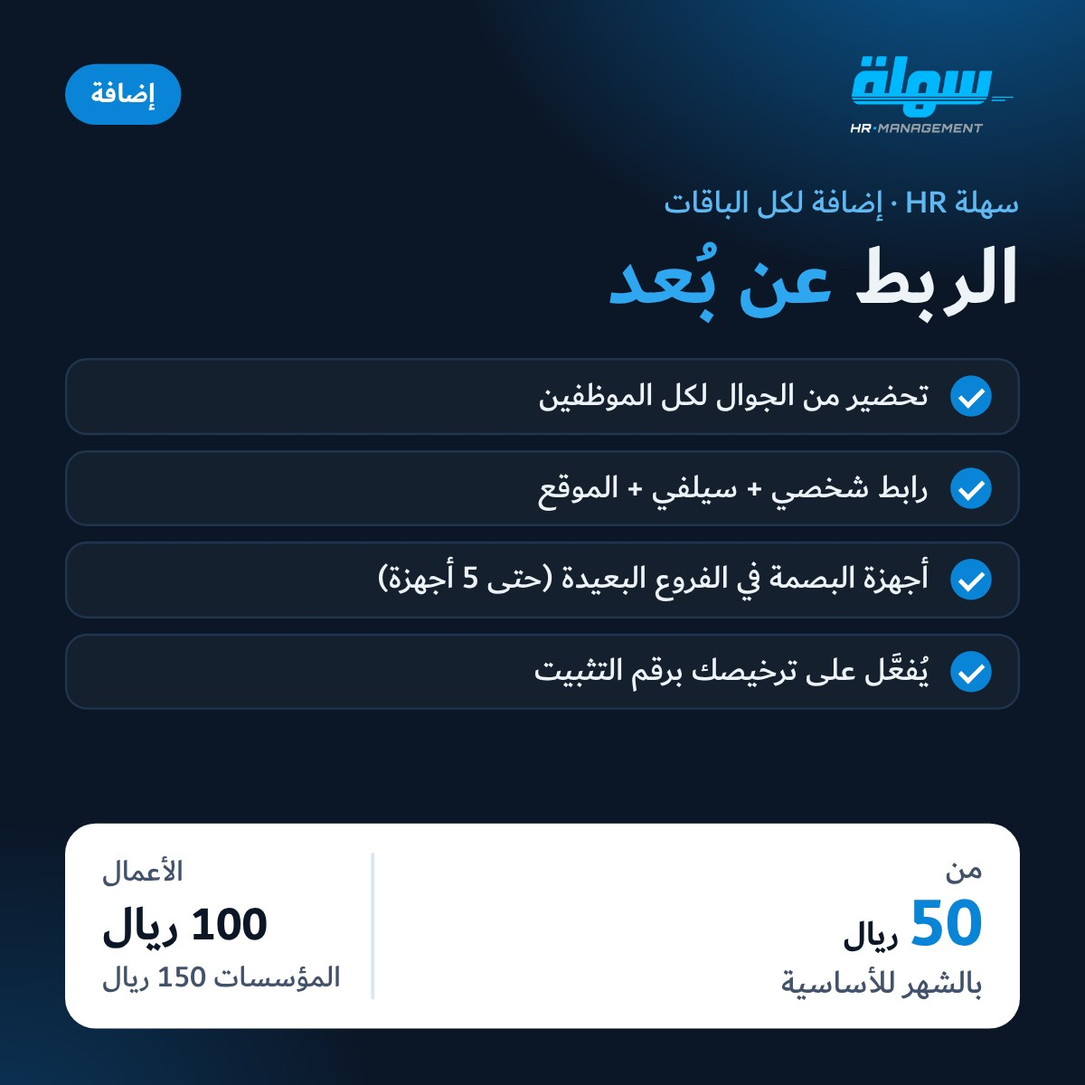
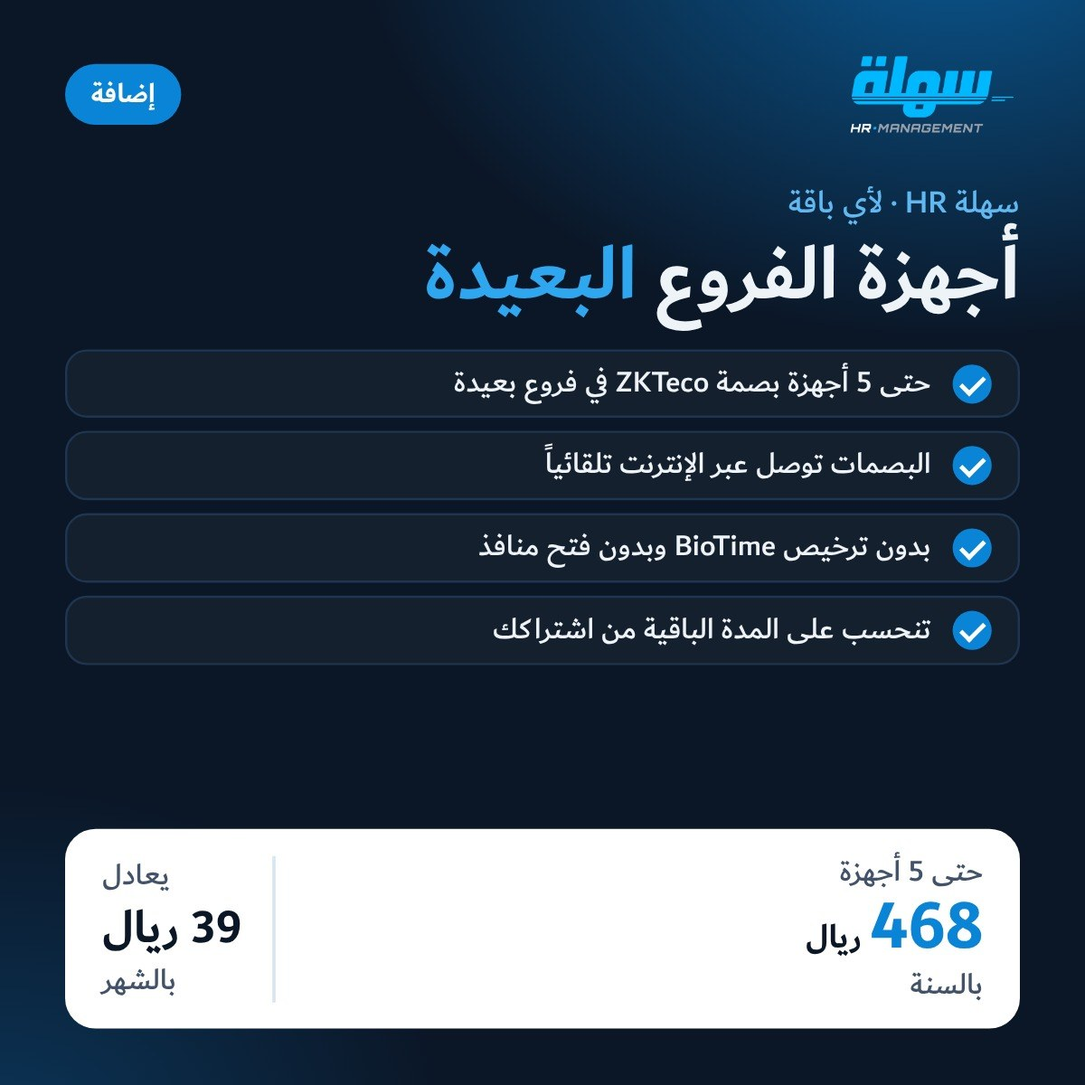
Pricing: mobile attendance included per package (5/15/30), extras 240/468, trial + 5 mobile punches
Claude-Session: https://claude.ai/code/session_01XTAqGAVn5NuZHbrhL7ZBz3

diff --git a/docs/index.html b/docs/index.html
@@ -3,9 +3,9 @@
 <head>
 <meta charset="utf-8">
 <meta name="viewport" content="width=device-width, initial-scale=1, viewport-fit=cover">
-<meta name="description" content="برنامج شؤون موظفين ورواتب وحضور يعمل بدون إنترنت. كل المميزات في كل الباقات، من 49 ريال بالشهر. جرّبه مجاناً 14 يوم.">
+<meta name="description" content="برنامج شؤون موظفين ورواتب وحضور يعمل بدون إنترنت. كل المميزات في كل الباقات مع البصمة من الجوال ومطابقة الوجه، من 49 ريال بالشهر. جرّبه مجاناً 14 يوم.">
 <meta property="og:title" content="سهلة HR — شؤون الموظفين والرواتب والحضور على جهازك">
-<meta property="og:description" content="الرواتب والحضور من جهاز البصمة والإجازات ونهاية الخدمة وتنبيه انتهاء الإقامة. جرّبه مجاناً 14 يوم.">
+<meta property="og:description" content="الرواتب والحضور من جهاز البصمة أو من الجوال مع مطابقة الوجه، والإجازات ونهاية الخدمة وتنبيه انتهاء الإقامة. جرّبه مجاناً 14 يوم.">
 <meta property="og:image" content="https://hr.sahla-sa.com/img/og-sahla.png?v=2">
 <meta property="og:image:width" content="1200">
 <meta property="og:image:height" content="630">
@@ -13,7 +13,7 @@
 <meta property="og:url" content="https://hr.sahla-sa.com/">
 <meta name="twitter:card" content="summary_large_image">
 <meta name="twitter:title" content="سهلة HR — شؤون الموظفين والرواتب والحضور على جهازك">
-<meta name="twitter:description" content="الرواتب والحضور من جهاز البصمة والإجازات ونهاية الخدمة وتنبيه انتهاء الإقامة. جرّبه مجاناً 14 يوم.">
+<meta name="twitter:description" content="الرواتب والحضور من جهاز البصمة أو من الجوال مع مطابقة الوجه، والإجازات ونهاية الخدمة وتنبيه انتهاء الإقامة. جرّبه مجاناً 14 يوم.">
 <meta name="twitter:image" content="https://hr.sahla-sa.com/img/og-sahla.png?v=2">
 <meta name="theme-color" content="#0f1115">
 <!-- Google tag (gtag.js) -->
@@ -387,7 +387,7 @@ footer a { color: var(--accent); text-decoration: none; font-weight: 600; }
 .week div.hl { border-color: var(--accent); background: var(--accent-soft); } .week div.hl span:last-child { color: var(--fg); font-weight: 700; }
 </style>
 <link rel="canonical" href="https://hr.sahla-sa.com/">
-<script type="application/ld+json">{"@context":"https://schema.org","@graph":[{"@type":"SoftwareApplication","name":"سهلة HR","alternateName":["Sahla HR","برنامج سهلة HR","سهلة اتش ار"],"description":"برنامج شؤون موظفين ورواتب وحضور وانصراف مربوط بأجهزة البصمة ZKTeco، يعمل بدون إنترنت. كل المميزات في كل الباقات، والفرق في عدد الموظفين فقط. اشتراك سنوي من 49 ريال بالشهر مع رسوم تأسيس. جرّبه مجاناً 14 يوم.","applicationCategory":"BusinessApplication","operatingSystem":"Windows","inLanguage":"ar","url":"https://hr.sahla-sa.com/","image":"https://hr.sahla-sa.com/img/og-sahla.png","offers":{"@type":"AggregateOffer","priceCurrency":"SAR","lowPrice":"588","highPrice":"1788","offerCount":"3","offers":[{"@type":"Offer","name":"الباقة الأساسية","price":"588","priceCurrency":"SAR","description":"حتى 25 موظف، كل المميزات. اشتراك سنوي 588 ريال (يعادل 49 ريال بالشهر) + رسوم تأسيس 399 ريال."},{"@type":"Offer","name":"باقة الأعمال","price":"1188","priceCurrency":"SAR","description":"حتى 75 موظف، كل المميزات. اشتراك سنوي 1,188 ريال (يعادل 99 ريال بالشهر) + رسوم تأسيس 499 ريال."},{"@type":"Offer","name":"باقة المؤسسات","price":"1788","priceCurrency":"SAR","description":"عدد موظفين بدون حد، كل المميزات. اشتراك سنوي 1,788 ريال (يعادل 149 ريال بالشهر) + رسوم تأسيس 799 ريال."}]},"publisher":{"@type":"Organization","name":"سهلة | Sahla","url":"https://hr.sahla-sa.com/","email":"info@sahla-sa.com","telephone":"+966538000892"}}]}</script>
+<script type="application/ld+json">{"@context":"https://schema.org","@graph":[{"@type":"SoftwareApplication","name":"سهلة HR","alternateName":["Sahla HR","برنامج سهلة HR","سهلة اتش ار"],"description":"برنامج شؤون موظفين ورواتب وحضور وانصراف مربوط بأجهزة البصمة ZKTeco، يعمل بدون إنترنت. كل المميزات في كل الباقات مع إشعارات البريد والبصمة من الجوال ومطابقة الوجه، والفرق في عدد الموظفين. اشتراك سنوي من 49 ريال بالشهر مع رسوم تأسيس في أول سنة. جرّبه مجاناً 14 يوم مع 5 بصمات مجانية من الجوال.","applicationCategory":"BusinessApplication","operatingSystem":"Windows","inLanguage":"ar","url":"https://hr.sahla-sa.com/","image":"https://hr.sahla-sa.com/img/og-sahla.png","offers":{"@type":"AggregateOffer","priceCurrency":"SAR","lowPrice":"588","highPrice":"1788","offerCount":"3","offers":[{"@type":"Offer","name":"الباقة الأساسية","price":"588","priceCurrency":"SAR","description":"حتى 25 موظف، منهم 5 يبصمون من الجوال مع مطابقة الوجه، وكل المميزات. اشتراك سنوي 588 ريال (يعادل 49 ريال بالشهر) + رسوم تأسيس 399 ريال في أول سنة."},{"@type":"Offer","name":"باقة الأعمال","price":"1188","priceCurrency":"SAR","description":"حتى 75 موظف، منهم 15 يبصمون من الجوال مع مطابقة الوجه، وكل المميزات. اشتراك سنوي 1,188 ريال (يعادل 99 ريال بالشهر) + رسوم تأسيس 499 ريال في أول سنة."},{"@type":"Offer","name":"باقة المؤسسات","price":"1788","priceCurrency":"SAR","description":"عدد موظفين بدون حد، منهم 30 يبصمون من الجوال مع مطابقة الوجه، وكل المميزات. اشتراك سنوي 1,788 ريال (يعادل 149 ريال بالشهر) + رسوم تأسيس 799 ريال في أول سنة."}]},"publisher":{"@type":"Organization","name":"سهلة | Sahla","url":"https://hr.sahla-sa.com/","email":"info@sahla-sa.com","telephone":"+966538000892"}}]}</script>
 </head>
 <body>
 
@@ -405,12 +405,12 @@ footer a { color: var(--accent); text-decoration: none; font-weight: 600; }
       <div class="copy">
         <div class="eyebrow">سهلة HR — نظام شؤون الموظفين</div>
         <h1>موظفينك ورواتبك وحضورهم في مكان واحد، <em>على جهازك وبدون إنترنت</em></h1>
-        <p class="lead">برنامج شؤون موظفين مبني على نظام العمل السعودي: ملفات الموظفين، الحضور من جهاز البصمة، الرواتب مع التأمينات وملف حماية الأجور، الإجازات، ونهاية الخدمة. كل المميزات في كل الباقات، من 49 ريال بالشهر، وبياناتك تبقى عندك.</p>
+        <p class="lead">برنامج شؤون موظفين مبني على نظام العمل السعودي: ملفات الموظفين، الحضور من جهاز البصمة، الرواتب مع التأمينات وملف حماية الأجور، الإجازات، ونهاية الخدمة. كل المميزات في كل الباقات مع البصمة من الجوال ومطابقة الوجه، من 49 ريال بالشهر، وبياناتك تبقى عندك.</p>
         <div class="ctas">
           <a class="btn primary" href="#editions">حمّل التجربة المجانية <small>14 يوم كاملة</small></a>
           <a class="btn wa" href="https://wa.me/966538000892?text=%D8%A7%D9%84%D8%B3%D9%84%D8%A7%D9%85%20%D8%B9%D9%84%D9%8A%D9%83%D9%85%D8%8C%20%D8%A3%D8%A8%D8%BA%D9%89%20%D8%A3%D8%B9%D8%B1%D9%81%20%D8%B9%D9%86%20%D8%B3%D9%87%D9%84%D8%A9%20HR" target="_blank" rel="noopener"><svg viewBox="0 0 24 24" fill="currentColor" aria-hidden="true"><path d="M12 2a10 10 0 0 0-8.6 15.1L2 22l5-1.3A10 10 0 1 0 12 2Zm0 18.2a8.2 8.2 0 0 1-4.2-1.2l-.3-.2-3 .8.8-2.9-.2-.3A8.2 8.2 0 1 1 12 20.2Zm4.5-6.1c-.2-.1-1.5-.7-1.7-.8s-.4-.1-.6.1-.7.8-.8 1-.3.2-.5.1a6.7 6.7 0 0 1-3.3-2.9c-.3-.4.3-.4.7-1.4.1-.2 0-.3 0-.5l-.8-1.8c-.2-.5-.4-.4-.6-.4h-.5a1 1 0 0 0-.7.3 3 3 0 0 0-.9 2.2 5.2 5.2 0 0 0 1.1 2.7 11.8 11.8 0 0 0 4.5 4c1.7.7 2.3.8 3.2.6a2.7 2.7 0 0 0 1.8-1.3 2.2 2.2 0 0 0 .1-1.3c0-.1-.2-.2-.5-.3Z"/></svg>تواصل واتساب</a>
         </div>
-        <div class="meta"><span><i></i>من 49 ريال بالشهر</span><span><i></i>عربي بالكامل</span><span><i></i>كمبيوتر أو سيرفر للشبكة</span><span><i></i>يشتغل على الجوال من الشبكة</span></div>
+        <div class="meta"><span><i></i>من 49 ريال بالشهر</span><span><i></i>عربي بالكامل</span><span><i></i>كمبيوتر أو سيرفر للشبكة</span><span><i></i>يشتغل على الجوال من الشبكة</span><span><i></i>البصمة من الجوال مع مطابقة الوجه</span></div>
       </div>
       <div class="stage">
         <div class="frame"><div class="bar"><i></i><i></i><i></i></div><img src="img/dashboard-d.webp?v=3" alt="لوحة التحكم في سهلة HR: عدد الموظفين لكل علامة، الحاضرون والغائبون اليوم، تكلفة الرواتب، وتنبيهات انتهاء الإقامات والعقود" width="1600" height="1000"></div>
@@ -587,7 +587,7 @@ footer a { color: var(--accent); text-decoration: none; font-weight: 600; }
         <p class="lead">أجهزة ZKTeco على نفس الشبكة ترتبط بعنوانها مباشرة بدون أي برنامج إضافي. والأجهزة في الفروع البعيدة توصل بصماتها عبر الإنترنت، وتضيفها بزر «إضافة جهاز جديد»: البرنامج يكتشف الجهاز ويطلب موافقتك.</p>
         <ul class="attn-list">
           <li><b>على نفس الشبكة</b><span>ربط مباشر بعنوان الجهاز، في كل النسخ</span></li>
-          <li><b>فروع متفرقة</b><span>حتى 5 أجهزة بعيدة عبر الإنترنت، بدون ترخيص BioTime وبدون فتح منافذ في الراوتر · ضمن إضافة <a href="devices/">«الربط عن بُعد»</a>: من <span class="num">50</span> ريال بالشهر</span></li>
+          <li><b>فروع متفرقة</b><span>حتى 5 أجهزة بعيدة عبر الإنترنت، بدون ترخيص BioTime وبدون فتح منافذ في الراوتر · إضافة <a href="devices/">«أجهزة الفروع البعيدة»</a>: <span class="num">468</span> ريال بالسنة (<span class="num">39</span> بالشهر)</span></li>
           <li><b>BioTime أو Excel</b><span>وما زال الربط مع ZKBioTime واستيراد ملف البصمات متوفر</span></li>
         </ul>
       </div>
@@ -668,16 +668,16 @@ footer a { color: var(--accent); text-decoration: none; font-weight: 600; }
   <section id="editions" class="editions">
     <div class="wrap">
       <div class="eyebrow">الباقات والأسعار</div>
-      <h2>جرّبه مجاناً 14 يوم، وبعدها اختر الباقة اللي تناسب منشأتك</h2>
-      <p class="lead" style="margin-top:12px"><b>كل المميزات مشمولة في كل الباقات</b>، والفرق بس في عدد الموظفين. تدفع رسوم التأسيس مرة وحدة، والاشتراك سنوي يشمل التحديثات والدعم الفني. جرّبه مجاناً 14 يوم بكل المميزات، وإذا عجبك اشترِ باقتك من المتجر، وأرسل لنا «رقم التثبيت» على واتساب، ويوصلك رقم الترخيص.</p>
+      <h2>جرّبه مجاناً 14 يوم مع 5 بصمات مجانية من الجوال، وبعدها اختر باقتك</h2>
+      <p class="lead" style="margin-top:12px"><b>كل المميزات مشمولة في كل الباقات</b>، ومعها إشعارات البريد والبصمة من الجوال مع مطابقة الوجه. الفرق بس في عدد الموظفين وعدد اللي يبصمون من الجوال. رسوم التأسيس في أول سنة فقط، والاشتراك السنوي يشمل التحديثات والدعم الفني. وإذا عجبك البرنامج اشترِ باقتك من المتجر، وأرسل لنا «رقم التثبيت» على واتساب، ويوصلك رقم الترخيص.</p>
       <div class="grid three">
         <article class="ed">
           <span class="tag">للمنشآت الصغيرة</span>
           <h3>الأساسية</h3>
           <p class="fit">للمنشأة الصغيرة اللي يدير شؤون موظفيها شخص واحد من جهازه.</p>
           <div class="price"><b class="num">49</b><span>ريال بالشهر</span></div>
-          <p class="renew">تُدفع سنوياً <b class="num">588</b> ريال · رسوم التأسيس <b class="num">399</b> ريال مرة وحدة</p>
-          <ul><li><span><b>حتى 25 موظف</b></span></li><li><span><b>كل المميزات مشمولة</b>: الحضور والرواتب والإجازات ونهاية الخدمة والتقارير</span></li><li><span><b>إيميل تلقائي للموظف</b> مع كل حدث، وتنبيه فوري بالتأخير وعدم التبصيم</span></li><li>على جهاز واحد، أو على سيرفر الشركة لكل أجهزة الشبكة</li><li>مستخدمين بدون حد، وواجهة عربي وإنجليزي</li><li>ربط أجهزة البصمة على نفس الشبكة (ZKTeco مباشرة)</li><li>التحديثات والدعم الفني</li></ul>
+          <p class="renew">تُدفع سنوياً <b class="num">588</b> ريال · رسوم التأسيس <b class="num">399</b> ريال في أول سنة فقط</p>
+          <ul><li><span><b>حتى 25 موظف</b></span></li><li><span><b>البصمة من الجوال لـ <span class="num">5</span> موظف</b>: رابط شخصي، الموقع داخل نطاق الفرع، وسيلفي مع مطابقة الوجه</span></li><li><span><b>كل المميزات مشمولة</b>: الحضور والرواتب والإجازات ونهاية الخدمة والتقارير</span></li><li><span><b>إيميل تلقائي للموظف</b> مع كل حدث، وتنبيه فوري بالتأخير وعدم التبصيم</span></li><li>على جهاز واحد، أو على سيرفر الشركة لكل أجهزة الشبكة</li><li>مستخدمين بدون حد، وواجهة عربي وإنجليزي</li><li>ربط أجهزة البصمة على نفس الشبكة (ZKTeco مباشرة)</li><li>التحديثات والدعم الفني</li></ul>
           <div class="acts">
             <a class="btn primary" href="https://hr.sahla-sa.com/download/Sahla-HR-Desktop-Setup.exe" rel="noopener">حمّل التجربة <small>Windows · 19 ميجا</small></a>
             <a class="btn ghost" href="https://sahla-sa.com/-/p1999974278" target="_blank" rel="noopener">اشترك في الأساسية</a>
@@ -691,8 +691,8 @@ footer a { color: var(--accent); text-decoration: none; font-weight: 600; }
           <h3>الأعمال</h3>
           <p class="fit">للشركة اللي فيها فريق موارد بشرية ومحاسب ومدراء فروع يشتغلون من أكثر من جهاز.</p>
           <div class="price"><b class="num">99</b><span>ريال بالشهر</span></div>
-          <p class="renew">تُدفع سنوياً <b class="num">1,188</b> ريال · رسوم التأسيس <b class="num">499</b> ريال مرة وحدة</p>
-          <ul><li><span><b>حتى 75 موظف</b></span></li><li><span><b>كل المميزات مشمولة</b>: الحضور والرواتب والإجازات ونهاية الخدمة والتقارير</span></li><li><span><b>إيميل تلقائي للموظف</b> مع كل حدث، وتنبيه فوري بالتأخير وعدم التبصيم</span></li><li>على جهاز واحد، أو على سيرفر الشركة لكل أجهزة الشبكة</li><li>مستخدمين بدون حد، وواجهة عربي وإنجليزي</li><li>ربط أجهزة البصمة على نفس الشبكة (ZKTeco مباشرة)</li><li>التحديثات والدعم الفني</li></ul>
+          <p class="renew">تُدفع سنوياً <b class="num">1,188</b> ريال · رسوم التأسيس <b class="num">499</b> ريال في أول سنة فقط</p>
+          <ul><li><span><b>حتى 75 موظف</b></span></li><li><span><b>البصمة من الجوال لـ <span class="num">15</span> موظف</b>: رابط شخصي، الموقع داخل نطاق الفرع، وسيلفي مع مطابقة الوجه</span></li><li><span><b>كل المميزات مشمولة</b>: الحضور والرواتب والإجازات ونهاية الخدمة والتقارير</span></li><li><span><b>إيميل تلقائي للموظف</b> مع كل حدث، وتنبيه فوري بالتأخير وعدم التبصيم</span></li><li>على جهاز واحد، أو على سيرفر الشركة لكل أجهزة الشبكة</li><li>مستخدمين بدون حد، وواجهة عربي وإنجليزي</li><li>ربط أجهزة البصمة على نفس الشبكة (ZKTeco مباشرة)</li><li>التحديثات والدعم الفني</li></ul>
           <div class="acts">
             <a class="btn primary" href="https://hr.sahla-sa.com/download/Sahla-HR-Server-Email-Setup.exe" rel="noopener">حمّل التجربة <small>Windows Server · 19 ميجا</small></a>
             <a class="btn ghost" href="https://sahla-sa.com/-/p982089646" target="_blank" rel="noopener">اشترك في الأعمال</a>
@@ -706,8 +706,8 @@ footer a { color: var(--accent); text-decoration: none; font-weight: 600; }
           <h3>المؤسسات</h3>
           <p class="fit">للمنشأة الكبيرة أو المجموعة اللي عندها أكثر من علامة وفروع وموظفين كثير.</p>
           <div class="price"><b class="num">149</b><span>ريال بالشهر</span></div>
-          <p class="renew">تُدفع سنوياً <b class="num">1,788</b> ريال · رسوم التأسيس <b class="num">799</b> ريال مرة وحدة</p>
-          <ul><li><span><b>عدد موظفين بدون حد</b></span></li><li><span><b>كل المميزات مشمولة</b>: الحضور والرواتب والإجازات ونهاية الخدمة والتقارير</span></li><li><span><b>إيميل تلقائي للموظف</b> مع كل حدث، وتنبيه فوري بالتأخير وعدم التبصيم</span></li><li>على جهاز واحد، أو على سيرفر الشركة لكل أجهزة الشبكة</li><li>مستخدمين بدون حد، وواجهة عربي وإنجليزي</li><li>ربط أجهزة البصمة على نفس الشبكة (ZKTeco مباشرة)</li><li>التحديثات والدعم الفني</li></ul>
+          <p class="renew">تُدفع سنوياً <b class="num">1,788</b> ريال · رسوم التأسيس <b class="num">799</b> ريال في أول سنة فقط</p>
+          <ul><li><span><b>عدد موظفين بدون حد</b></span></li><li><span><b>البصمة من الجوال لـ <span class="num">30</span> موظف</b>: رابط شخصي، الموقع داخل نطاق الفرع، وسيلفي مع مطابقة الوجه</span></li><li><span><b>كل المميزات مشمولة</b>: الحضور والرواتب والإجازات ونهاية الخدمة والتقارير</span></li><li><span><b>إيميل تلقائي للموظف</b> مع كل حدث، وتنبيه فوري بالتأخير وعدم التبصيم</span></li><li>على جهاز واحد، أو على سيرفر الشركة لكل أجهزة الشبكة</li><li>مستخدمين بدون حد، وواجهة عربي وإنجليزي</li><li>ربط أجهزة البصمة على نفس الشبكة (ZKTeco مباشرة)</li><li>التحديثات والدعم الفني</li></ul>
           <div class="acts">
             <a class="btn primary" href="https://hr.sahla-sa.com/download/Sahla-HR-Server-Email-Setup.exe" rel="noopener">حمّل التجربة <small>Windows Server · 19 ميجا</small></a>
             <a class="btn ghost" href="https://sahla-sa.com/-/p1475062499" target="_blank" rel="noopener">اشترك في المؤسسات</a>
@@ -717,8 +717,10 @@ footer a { color: var(--accent); text-decoration: none; font-weight: 600; }
         </article>
       </div>
       <div class="addons">
-        <div><b>إضافة «الربط عن بُعد»</b><span class="p"><span class="num">50</span> / <span class="num">100</span> / <span class="num">150</span> ريال بالشهر حسب الباقة</span><span>تُدفع سنوياً مع الاشتراك: <span class="num">600</span> للأساسية، <span class="num">1,200</span> للأعمال، <span class="num">1,800</span> للمؤسسات. تحضير من الجوال لكل الموظفين (رابط شخصي + سيلفي + الموقع)، وربط أجهزة البصمة في الفروع البعيدة عبر الإنترنت (حتى 5 أجهزة). <a href="devices/">التفاصيل</a></span><a class="btn ghost addon-buy" href="https://wa.me/966538000892?text=%D8%A7%D9%84%D8%B3%D9%84%D8%A7%D9%85%20%D8%B9%D9%84%D9%8A%D9%83%D9%85%D8%8C%20%D8%A3%D8%A8%D8%BA%D9%89%20%D8%A5%D8%B6%D8%A7%D9%81%D8%A9%20%C2%AB%D8%A7%D9%84%D8%B1%D8%A8%D8%B7%20%D8%B9%D9%86%20%D8%A8%D9%8F%D8%B9%D8%AF%C2%BB%20%D9%81%D9%8A%20%D8%B3%D9%87%D9%84%D8%A9%20HR" target="_blank" rel="noopener">اطلب الإضافة</a></div>
-        <div><b>وش تشمل رسوم التأسيس؟</b><span class="p"><span class="num">399</span> / <span class="num">499</span> / <span class="num">799</span> ريال مرة وحدة</span><span>تفعيل الترخيص، التثبيت عن بُعد، ربط أجهزة البصمة على نفس الشبكة (جهاز واحد للأساسية، حتى 3 للأعمال، حتى 5 للمؤسسات)، استيراد الموظفين من Excel، تجهيز بيانات المنشأة، وجلسة تدريب 45 دقيقة. رسوم التأسيس غير مستردة بعد التثبيت.</span></div>
+        <div><b>إضافة «موظفين جوال إضافيين»</b><span class="p"><span class="num">240</span> ريال بالسنة لكل <span class="num">5</span> موظفين</span><span>يعني <span class="num">4</span> ريال للموظف بالشهر، لأي باقة. لما يزيد عدد اللي يبصمون من الجوال عن المشمول في باقتك، تضيف كل 5 موظفين بنفس المميزات: رابط شخصي، الموقع داخل نطاق الفرع، وسيلفي مع مطابقة الوجه.</span><a class="btn ghost addon-buy" href="https://wa.me/966538000892?text=%D8%A7%D9%84%D8%B3%D9%84%D8%A7%D9%85%20%D8%B9%D9%84%D9%8A%D9%83%D9%85%D8%8C%20%D8%A3%D8%A8%D8%BA%D9%89%20%D8%A5%D8%B6%D8%A7%D9%81%D8%A9%20%C2%AB%D9%85%D9%88%D8%B8%D9%81%D9%8A%D9%86%20%D8%AC%D9%88%D8%A7%D9%84%20%D8%A5%D8%B6%D8%A7%D9%81%D9%8A%D9%8A%D9%86%C2%BB%20%D9%81%D9%8A%20%D8%B3%D9%87%D9%84%D8%A9%20HR" target="_blank" rel="noopener">اطلب الإضافة</a></div>
+        <div><b>إضافة «أجهزة الفروع البعيدة»</b><span class="p"><span class="num">468</span> ريال بالسنة (يعادل <span class="num">39</span> بالشهر)</span><span>لأي باقة. تربط حتى 5 أجهزة بصمة ZKTeco في فروع بعيدة عبر الإنترنت، بدون شبكة موحّدة وبدون ترخيص BioTime. أجهزة الفروع البعيدة ما تدخل في التجربة المجانية. <a href="devices/">التفاصيل</a></span><a class="btn ghost addon-buy" href="https://wa.me/966538000892?text=%D8%A7%D9%84%D8%B3%D9%84%D8%A7%D9%85%20%D8%B9%D9%84%D9%8A%D9%83%D9%85%D8%8C%20%D8%A3%D8%A8%D8%BA%D9%89%20%D8%A5%D8%B6%D8%A7%D9%81%D8%A9%20%C2%AB%D8%A3%D8%AC%D9%87%D8%B2%D8%A9%20%D8%A7%D9%84%D9%81%D8%B1%D9%88%D8%B9%20%D8%A7%D9%84%D8%A8%D8%B9%D9%8A%D8%AF%D8%A9%C2%BB%20%D9%81%D9%8A%20%D8%B3%D9%87%D9%84%D8%A9%20HR" target="_blank" rel="noopener">اطلب الإضافة</a></div>
+        <div><b>وش تشمل رسوم التأسيس؟</b><span class="p"><span class="num">399</span> / <span class="num">499</span> / <span class="num">799</span> ريال في أول سنة فقط</span><span>تفعيل الترخيص، التثبيت عن بُعد، ربط أجهزة البصمة على نفس الشبكة (جهاز واحد للأساسية، حتى 3 للأعمال، حتى 5 للمؤسسات)، استيراد الموظفين من Excel، تجهيز بيانات المنشأة، وجلسة تدريب 45 دقيقة. رسوم التأسيس غير مستردة بعد التثبيت.</span></div>
+        <div><b>الإضافات والترقية خلال السنة</b><span class="p">تدفع بس عن المدة المتبقية</span><span>أي إضافة تطلبها في نص السنة تنحسب بنسبة المدة الباقية من اشتراكك. والترقية لباقة أعلى تدفع فيها فرق الاشتراك السنوي عن المدة الباقية فقط، بدون رسوم تأسيس جديدة. الدفع سنوي، وما فيه تقسيط.</span></div>
       </div>
       <div class="renewal" id="renewal">
         <div class="card">
@@ -750,7 +752,7 @@ footer a { color: var(--accent); text-decoration: none; font-weight: 600; }
       <h2>من التحميل للتشغيل في دقائق</h2>
       <ol>
         <li><h3>حمّل وثبّت</h3><p>شغّل ملف التثبيت. أول مرة يفتح يطلب اسم منشأتك وحساب المالك.</p></li>
-        <li><h3>جرّبه 14 يوم</h3><p>البرنامج كامل بكل أقسامه. أضف موظفينك وجرّب الرواتب والحضور على بياناتك الحقيقية.</p></li>
+        <li><h3>جرّبه 14 يوم</h3><p>البرنامج كامل بكل أقسامه، ومعه 5 بصمات مجانية من الجوال. أضف موظفينك وجرّب الرواتب والحضور على بياناتك الحقيقية.</p></li>
         <li><h3>اشترِ وفعّل الترخيص</h3><p>اشترِ باقتك من المتجر، ثم اضغط في البرنامج «إدخال رقم الترخيص» وأرسل لنا رقم التثبيت على واتساب. يوصلك رقم ترخيص باقتك، وتكمل بنفس بياناتك.</p></li>
       </ol>
     </div>
@@ -764,15 +766,16 @@ footer a { color: var(--accent); text-decoration: none; font-weight: 600; }
         <details><summary>هل يحتاج إنترنت؟</summary><p>لا. البرنامج يشتغل على جهازك أو على سيرفر شركتك، والأجهزة الثانية تفتحه من الشبكة الداخلية. الإنترنت تحتاجه بس لإرسال إشعارات البريد، أو إذا كان جهاز البصمة على شبكة ثانية.</p></details>
         <details><summary>ويندوز يطلع تحذير «Windows protected your PC» عند التثبيت</summary><p>هذا تنبيه عام لأي برنامج جديد ما انتشر كثير. اضغط «More info» ثم «Run anyway» ويكمل التثبيت عادي.</p></details>
         <details><summary>وش يصير بعد الـ14 يوم إذا ما اشتريت؟</summary><p>البرنامج ما يقفل عليك: يصير للعرض فقط، تشوف بياناتك وتطبعها وتصدّرها، وبياناتك تبقى محفوظة كما هي. لما تفعّل الترخيص تكمل من حيث وقفت.</p></details>
-        <details><summary>كيف يكون الدفع؟ شهري ولا سنوي؟</summary><p>الاشتراك سنوي: <span class="num">588</span> ريال للأساسية (يعادل <span class="num">49</span> بالشهر)، <span class="num">1,188</span> للأعمال (<span class="num">99</span> بالشهر)، و<span class="num">1,788</span> للمؤسسات (<span class="num">149</span> بالشهر). وفوقها رسوم تأسيس مرة وحدة: <span class="num">399</span> أو <span class="num">499</span> أو <span class="num">799</span> حسب الباقة. الأسعار نهائية، والترخيص مربوط بالجهاز اللي ثبّت عليه البرنامج.</p></details>
+        <details><summary>كيف يكون الدفع؟ شهري ولا سنوي؟</summary><p>الاشتراك سنوي: <span class="num">588</span> ريال للأساسية (يعادل <span class="num">49</span> بالشهر)، <span class="num">1,188</span> للأعمال (<span class="num">99</span> بالشهر)، و<span class="num">1,788</span> للمؤسسات (<span class="num">149</span> بالشهر). وفي أول سنة فقط رسوم تأسيس: <span class="num">399</span> أو <span class="num">499</span> أو <span class="num">799</span> حسب الباقة. الدفع سنوي بدون تقسيط، والأسعار نهائية، والترخيص مربوط بالجهاز اللي ثبّت عليه البرنامج.</p></details>
         <details><summary>اشتركت بالأسعار السابقة، هل يتغير سعري؟</summary><p>لا. اللي اشترك بأسعار الاشتراك السابقة يبقى تجديده بنفس سعره، وأصحاب التراخيص الدائمة يبقى ترخيصهم كما هو.</p></details>
         <details><summary>وش يشمل التجديد السنوي؟</summary><p>تحديثات الأنظمة (نسب التأمينات، تعديلات نظام العمل، ملفات حماية الأجور)، وكل النسخ الجديدة والتحسينات، والدعم الفني بأوقات استجابة محددة، والمساعدة في استرجاع النسخ الاحتياطية والنقل لجهاز جديد.</p></details>
         <details><summary>وش يصير إذا ما جددت؟</summary><p>نذكّرك قبل الانتهاء بـ 30 يوم، وبعد الانتهاء عندك 30 يوم مهلة والبرنامج يشتغل عادي. بعد المهلة يصير البرنامج للعرض فقط: تشوف بياناتك وتطبعها وتصدّرها، والنسخ الاحتياطي مستمر. بياناتك ما تنقفل أبداً. وإذا رجعت خلال 6 أشهر تجدد بالسعر العادي، وبعدها بـ 50% من رسوم التأسيس.</p></details>
-        <details><summary>أقدر أربطه بجهاز البصمة؟</summary><p>نعم. أجهزة ZKTeco على نفس الشبكة ترتبط بعنوانها مباشرة، والأجهزة في الفروع البعيدة ترتبط عبر الإنترنت مع إضافة «الربط عن بُعد» (من <span class="num">50</span> ريال بالشهر حسب الباقة). ويسحب أيضاً من برنامج ZKBioTime، أو تستورد ملف حركات البصمة من Excel لأي جهاز ثاني.</p></details>
+        <details><summary>أقدر أربطه بجهاز البصمة؟</summary><p>نعم. أجهزة ZKTeco على نفس الشبكة ترتبط بعنوانها مباشرة، والأجهزة في الفروع البعيدة (حتى 5 أجهزة) ترتبط عبر الإنترنت مع إضافة «أجهزة الفروع البعيدة» بـ <span class="num">468</span> ريال بالسنة لأي باقة. ويسحب أيضاً من برنامج ZKBioTime، أو تستورد ملف حركات البصمة من Excel لأي جهاز ثاني.</p></details>
+        <details><summary>كيف تشتغل البصمة من الجوال؟</summary><p>كل موظف ياخذ رابط شخصي يفتحه من جواله، ويسجّل حضوره وانصرافه بشرط يكون موقعه داخل نطاق الفرع، مع صورة سيلفي يطابقها البرنامج مع وجه الموظف تلقائياً. مشمولة في كل الباقات: <span class="num">5</span> موظفين في الأساسية، <span class="num">15</span> في الأعمال، و<span class="num">30</span> في المؤسسات. تحتاج أكثر؟ كل <span class="num">5</span> موظفين إضافيين بـ <span class="num">240</span> ريال بالسنة (<span class="num">4</span> ريال للموظف بالشهر). وفي التجربة المجانية تاخذ 5 بصمات مجانية من الجوال تجرّبها.</p></details>
         <details><summary>موظفيني أجانب، هل الإيميلات بالعربي بس؟</summary><p>لا. مع إشعارات البريد تختار لكل موظف لغة إشعاراته: عربي أو إنجليزي أو الاثنين، والتعميمات تقدر تكتبها بلغتين.</p></details>
         <details><summary>عندي أكثر من علامة تجارية أو فرع</summary><p>تضيف كل علامة بشعارها وسجلها التجاري، وكل علامة لها فروعها ومسيرها المستقل، وتقدر تشوف الكل في لوحة وحدة.</p></details>
         <details><summary>إشعارات البريد في أي باقة؟</summary><p>مشمولة في كل الباقات. إشعارات البريد ترسل للموظف إيميل تلقائي من بريد منشأتك مع كل حدث يخصه: الإنذارات، قرار الإجازة والسلفة، قسيمة الراتب، وقرب انتهاء وثائقه. تحتاج بريد للمنشأة (Google Workspace أو Gmail أو Microsoft 365 أو Zoho) وأن يكون الجهاز متصل بالإنترنت وقت الإرسال.</p></details>
-        <details><summary>أقدر أرقّي باقتي بعدين؟</summary><p>نعم. تدفع الفرق بين رسوم التأسيس للباقتين، وبعدها يكون تجديدك بسعر الباقة الجديدة. تواصل معنا على واتساب ونرسل لك رقم الترخيص الجديد، وتكمل بنفس بياناتك، وإذا انتقلت من الأساسية لنسخة السيرفر نساعدك تنقل بياناتك.</p></details>
+        <details><summary>أقدر أرقّي باقتي بعدين؟</summary><p>نعم. تدفع بس فرق الاشتراك السنوي بين الباقتين عن المدة الباقية من سنتك، بدون رسوم تأسيس جديدة، وبعدها يكون تجديدك بسعر الباقة الجديدة. تواصل معنا على واتساب ونرسل لك رقم الترخيص الجديد، وتكمل بنفس بياناتك، وإذا انتقلت من الأساسية لنسخة السيرفر نساعدك تنقل بياناتك.</p></details>
         <details><summary>أقدر أنقل البرنامج لجهاز جديد؟</summary><p>نعم. تاخذ نسخة احتياطية من البرنامج وترجعها على الجهاز الجديد بكلمة مرور الاستعادة. نسخ مجلد البيانات يدوياً ما يكفي، لأن مفتاح البيانات مربوط بالجهاز. تواصل معنا على واتساب لنقل الترخيص، والمساعدة بالنقل مشمولة في التجديد السنوي.</p></details>
         <details><summary>عندي موظفين دوامهم يختلف يوم الجمعة</summary><p>من ملف الموظف تحدد لأي يوم في الأسبوع ورديته الخاصة مرة وحدة، والبرنامج يحسب حضوره وتأخيره وتنبيهاته على وردية ذاك اليوم كل أسبوع.</p></details>
         <details><summary>هل الاتصال بين الأجهزة والسيرفر مشفّر؟</summary><p>في نسخة السيرفر تقدر تفعّل الاتصال المشفّر (HTTPS) داخل شبكتك بسطر واحد في الإعدادات، والبرنامج يجهّز شهادته بنفسه. أول مرة يطلع في المتصفح تنبيه لأن الشهادة خاصة بسيرفرك، تختار «متابعة» ويكمل عادي.</p></details>

diff --git a/docs/devices/index.html b/docs/devices/index.html
@@ -3,8 +3,8 @@
 <head>
 <meta charset="utf-8">
 <meta name="viewport" content="width=device-width, initial-scale=1, viewport-fit=cover">
-<title>إضافة «الربط عن بُعد»: التحضير من الجوال وأجهزة البصمة البعيدة | سهلة HR</title>
-<meta name="description" content="إضافة «الربط عن بُعد» في سهلة HR: تحضير من الجوال لكل الموظفين (رابط شخصي + سيلفي + الموقع)، وربط حتى 5 أجهزة بصمة ZKTeco في الفروع البعيدة عبر الإنترنت. من 50 ريال بالشهر.">
+<title>إضافة «أجهزة الفروع البعيدة»: ربط أجهزة البصمة عبر الإنترنت | سهلة HR</title>
+<meta name="description" content="إضافة «أجهزة الفروع البعيدة» في سهلة HR: ربط حتى 5 أجهزة بصمة ZKTeco في الفروع البعيدة عبر الإنترنت، 468 ريال بالسنة (39 بالشهر) لأي باقة. والبصمة من الجوال مع مطابقة الوجه مشمولة في كل الباقات.">
 <link rel="icon" href="../img/logo-dark.png">
 <style>
 @font-face{font-family:'Dubai';src:url('../fonts/Dubai-Regular.ttf') format('truetype');font-weight:400;font-display:swap}
@@ -23,6 +23,7 @@ ul{padding:0 18px 0 0;margin:14px 0}li{margin:6px 0}
 .btn{display:block;text-align:center;background:var(--accent);color:#fff;text-decoration:none;font-weight:700;font-size:19px;padding:14px;border-radius:12px;margin-top:16px}
 .btn.alt{background:#fff;color:var(--accent);border:1px solid var(--accent);font-size:16px;padding:10px}
 .small{color:var(--muted);font-size:14px}
+.note{background:#eef6fd;border:1px solid #cfe5f7;border-radius:12px;padding:12px 14px;font-size:15px;line-height:1.8;margin-top:6px}.note .small{display:block}
 @media(max-width:760px){.grid{grid-template-columns:1fr}.card{order:-1}h1{font-size:22px}}
 </style>
 </head>
@@ -32,17 +33,17 @@ ul{padding:0 18px 0 0;margin:14px 0}li{margin:6px 0}
 <div class="grid">
   <div class="pics"><img src="p1.webp" alt="سهلة HR للفروع المتفرقة"><img src="p2.webp" alt="طريقة الربط"></div>
   <div class="card">
-    <span class="tag">إضافة لكل الباقات</span>
-    <h1>«الربط عن بُعد» — تحضير من الجوال وأجهزة البصمة في الفروع البعيدة</h1>
-    <div class="price"><b>من 50 ر.س بالشهر</b></div>
-    <div class="small">تُدفع سنوياً مع الاشتراك: 600 ر.س للأساسية، 1,200 ر.س للأعمال، 1,800 ر.س للمؤسسات</div>
+    <span class="tag">إضافة لأي باقة</span>
+    <h1>«أجهزة الفروع البعيدة» — أجهزة البصمة في فروعك المتفرقة عبر الإنترنت</h1>
+    <div class="price"><b>468 ر.س بالسنة</b></div>
+    <div class="small">يعادل 39 ر.س بالشهر، بنفس السعر لأي باقة. إذا أضفتها في نص السنة تدفع عن المدة الباقية فقط.</div>
     <ul>
-      <li>تحضير من الجوال لكل الموظفين: رابط شخصي + سيلفي + الموقع</li>
       <li>حتى 5 أجهزة بصمة ZKTeco في فروع بعيدة، متصلة بالإنترنت فقط بدون شبكة موحّدة</li>
       <li>البصمات توصل للبرنامج تلقائياً كل بضع دقائق، وتنحسب في الحضور والتأخير والرواتب</li>
       <li>بدون ترخيص BioTime إضافي وبدون فتح منافذ في الراوتر</li>
       <li>نفعّل لك الإضافة على ترخيصك، وتبقى بياناتك كما هي</li>
     </ul>
+    <div class="note"><b>والبصمة من الجوال؟</b> مشمولة في كل الباقات بدون إضافة: رابط شخصي لكل موظف، الموقع داخل نطاق الفرع، وسيلفي مع مطابقة الوجه (5 موظفين في الأساسية، 15 في الأعمال، 30 في المؤسسات). تحتاج أكثر؟ كل 5 موظفين إضافيين بـ 240 ر.س بالسنة. <span class="small">أجهزة الفروع البعيدة ما تدخل في التجربة المجانية.</span></div>
     <a class="btn" id="buy" href="#">اطلب الإضافة الآن</a>
     <a class="btn alt" id="wa" href="#">استفسار عبر واتساب</a>
     <p class="small" id="iid"></p>
@@ -53,7 +54,7 @@ ul{padding:0 18px 0 0;margin:14px 0}li{margin:6px 0}
 // When the Salla product is live, put its link here and the main button goes to it.
 var SALLA = '';
 var id = new URLSearchParams(location.search).get('id') || '';
-var msg = 'السلام عليكم، أبغى إضافة «الربط عن بُعد» في سهلة HR' + (id ? '\nرقم التثبيت: ' + id : '');
+var msg = 'السلام عليكم، أبغى إضافة «أجهزة الفروع البعيدة» في سهلة HR' + (id ? '\nرقم التثبيت: ' + id : '');
 var wa = 'https://wa.me/966538000892?text=' + encodeURIComponent(msg);
 document.getElementById('buy').href = SALLA || wa;
 document.getElementById('wa').href = wa;
